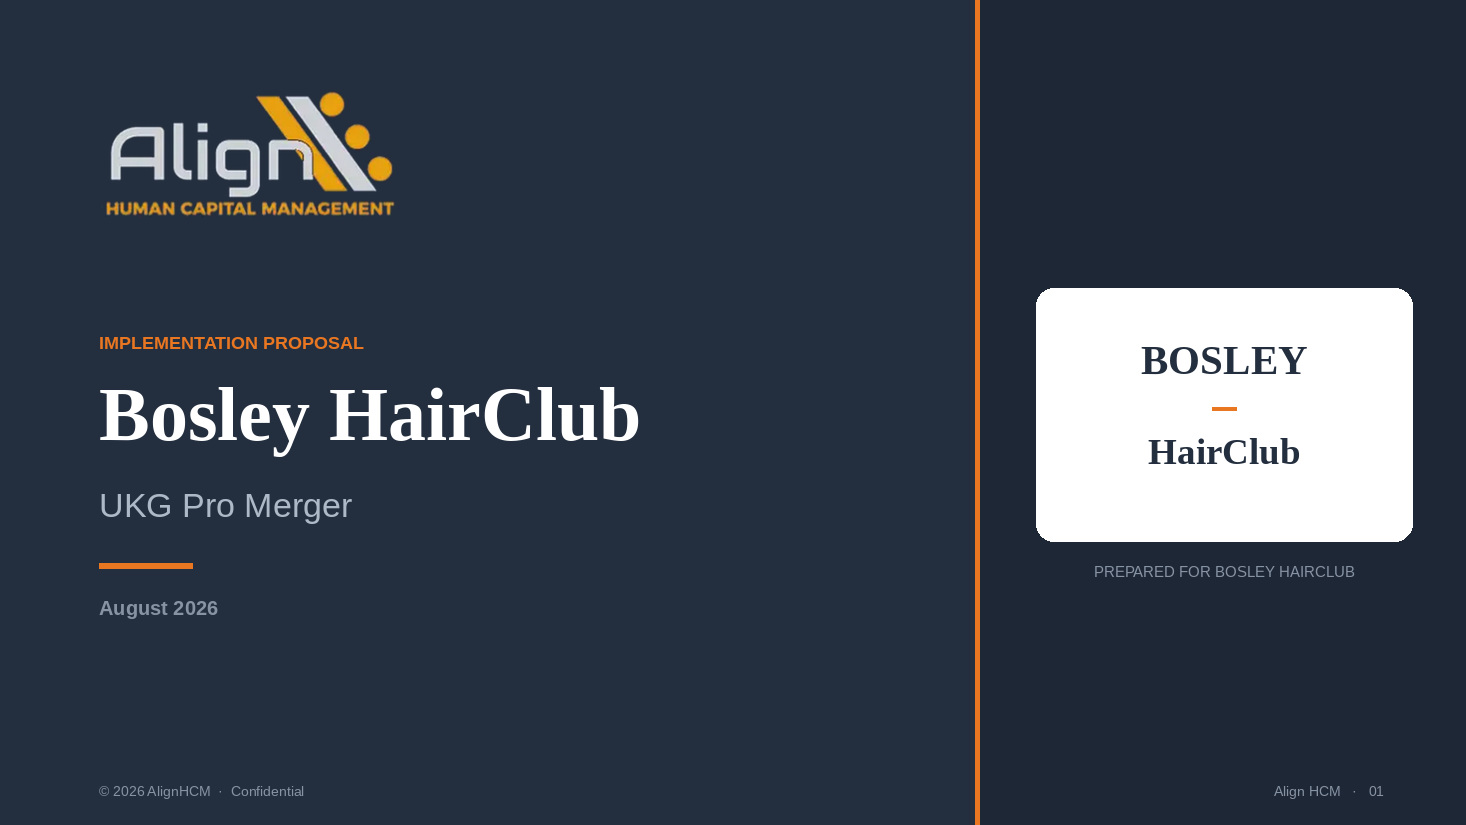
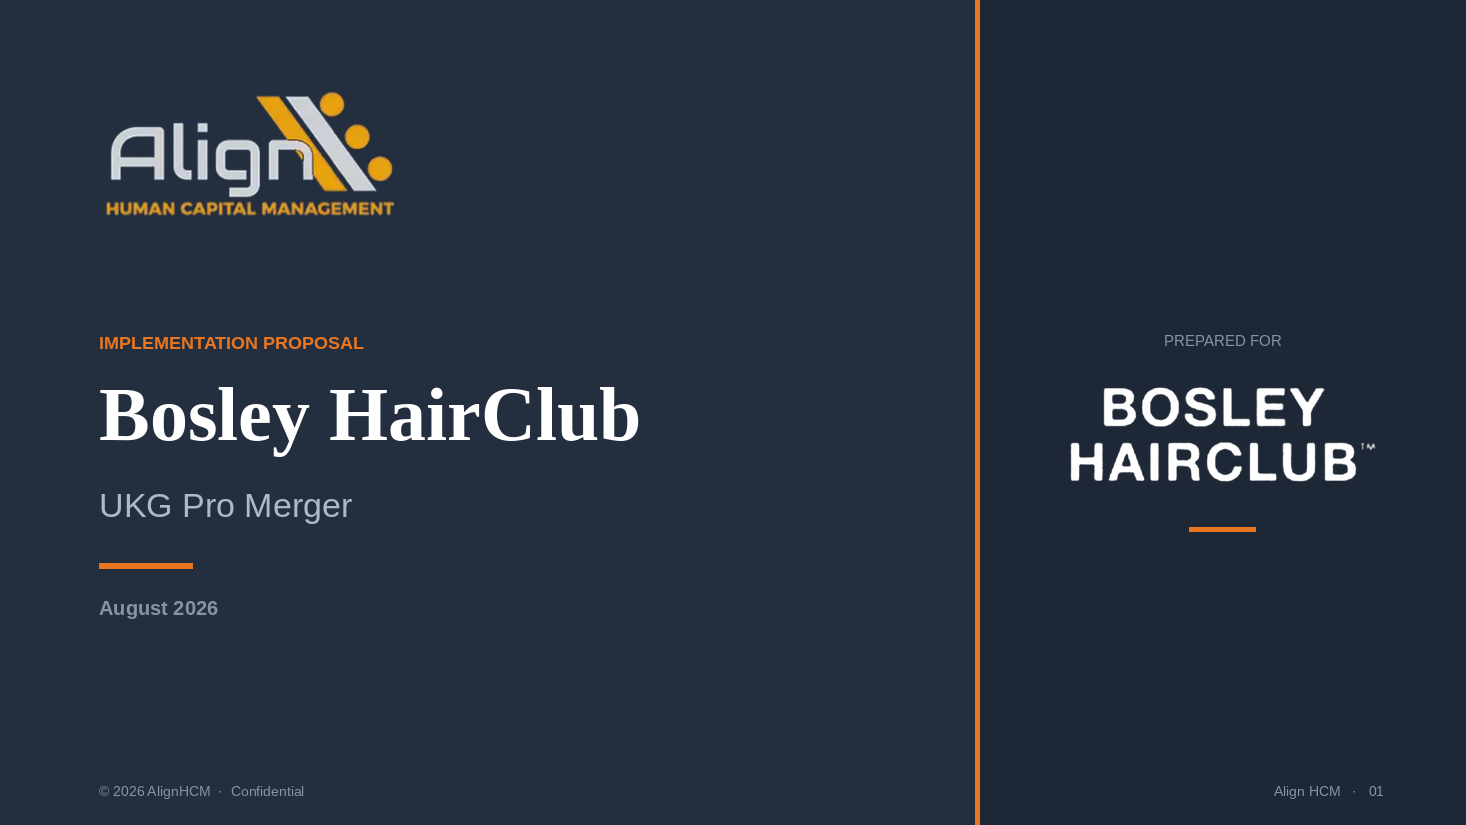
Use the real Bosley HairClub mark on slide 1
Dillon supplied the logo as white type on a solid #1A365D navy square, so the
typographic stand-in and its white plate are gone. The mark now sits directly on
slide 1's dark panel, mirroring the Align lockup opposite it.

Background removal is un-matting rather than colour keying: keying the navy
would leave a fringe on every anti-aliased edge, so extract_logo.py solves each
pixel back through p = white * a + bg * (1 - a) per channel to recover true
fractional coverage. The result is pure white art with clean edges, plus a navy
fill of the same mask for use on light backgrounds later.

The source is a 200px JPEG and the mark occupies 157x54px of it, so its edges
carry blocking noise. That is smoothed at native resolution before a 4x upscale,
then coverage is pushed toward 0/1 with a linear contrast ramp - sharpening
after the upscale would only magnify the artifacts, and unsharp masking rings.
Ramp steepness is capped at 2.4, above which the small trademark glyph breaks up.
Final asset is 628x216px, roughly 260 DPI at the 2.9in placement.

Validator still passes and no text overflows.

Claude-Session: https://claude.ai/code/session_01WvUF1JzKx1k1ooZkJowfQo

Changed region(s): [[0.706, 0.3333, 0.9823, 0.697]]

diff --git a/clients/align-hcm/deliverables/2026-08-12-bosley-hairclub-ukg-pro-merger-proposal/build/extract_logo.py b/clients/align-hcm/deliverables/2026-08-12-bosley-hairclub-ukg-pro-merger-proposal/build/extract_logo.py
@@ -1,0 +1,66 @@
+"""Lift the white Bosley HairClub wordmark off its navy plate.
+
+The supplied file is a 200px JPEG: white type on a solid #1A365D square. Colour
+keying would leave a navy fringe on every anti-aliased edge, so instead we solve
+the compositing equation per channel. Each pixel is
+
+    p = white * a + bg * (1 - a)
+
+so a = (p - bg) / (255 - bg), computed on R, G and B independently and averaged.
+That recovers true fractional coverage on the edges, and the recovered art is
+pure white — which is what we want, since it lands on the deck's navy panels.
+"""
+
+import numpy as np
+from PIL import Image, ImageFilter
+
+SRC = "/root/.claude/uploads/ea688f45-6511-5cd8-9469-ad72ea0100c8/6c893e0e-IMG_4739.JPG"
+OUT = "assets/bosley-hairclub-logo-white.png"
+OUT_NAVY = "assets/bosley-hairclub-logo-navy.png"
+BG = np.array([26, 54, 93], dtype=float)     # #1A365D, sampled from all 4 corners
+NOISE_FLOOR = 0.06                            # kills JPEG ringing in flat areas
+UPSCALE = 4
+
+img = Image.open(SRC).convert("RGB")
+p = np.array(img, dtype=float)
+
+# per-channel coverage, averaged; channels agree closely for white-on-navy
+alpha = ((p - BG) / (255.0 - BG)).mean(axis=2)
+alpha = np.clip(alpha, 0.0, 1.0)
+
+# JPEG leaves low-amplitude noise across the flat background: floor it, then
+# rescale what remains so genuine soft edges keep their full range
+alpha[alpha < NOISE_FLOOR] = 0.0
+alpha = np.clip((alpha - NOISE_FLOOR) / (1.0 - NOISE_FLOOR), 0.0, 1.0)
+
+# crop to the mark, keeping a small breathing margin
+ys, xs = np.nonzero(alpha > 0.12)
+pad = 3
+y0, y1 = max(0, ys.min() - pad), min(alpha.shape[0], ys.max() + 1 + pad)
+x0, x1 = max(0, xs.min() - pad), min(alpha.shape[1], xs.max() + 1 + pad)
+alpha = alpha[y0:y1, x0:x1]
+print(f"cropped to {x1 - x0} x {y1 - y0} (from {img.size[0]} x {img.size[1]})")
+
+a8 = Image.fromarray((alpha * 255).round().astype(np.uint8), mode="L")
+
+# The source is a 200px JPEG, so its edges carry blocking noise. Smooth that at
+# native resolution first — sharpening it after the upscale just magnifies it.
+a8 = a8.filter(ImageFilter.GaussianBlur(0.45))
+
+w, h = a8.size
+a8 = a8.resize((w * UPSCALE, h * UPSCALE), Image.LANCZOS)
+
+# The mark is bilevel type, so push coverage toward 0/1 with a linear contrast
+# ramp about the midpoint. This crisps the stems while leaving roughly a
+# one-pixel soft edge, and unlike unsharp masking it cannot ring.
+# 2.4 is the ceiling before the small trademark glyph starts breaking up
+STEEPNESS = 2.4
+a = np.array(a8, dtype=float) / 255.0
+a = np.clip((a - 0.5) * STEEPNESS + 0.5, 0.0, 1.0)
+a8 = Image.fromarray((a * 255).round().astype(np.uint8), mode="L")
+
+for name, rgb in ((OUT, (255, 255, 255)), (OUT_NAVY, (26, 54, 93))):
+    out = Image.new("RGBA", a8.size, rgb + (0,))
+    out.putalpha(a8)
+    out.save(name)
+    print("wrote", name, out.size)

diff --git a/clients/align-hcm/deliverables/2026-08-12-bosley-hairclub-ukg-pro-merger-proposal/build/build_deck.py b/clients/align-hcm/deliverables/2026-08-12-bosley-hairclub-ukg-pro-merger-proposal/build/build_deck.py
@@ -99,18 +99,20 @@ def slide_title(prs):
     _, tf = textbox(s, 0.90, 5.42, 7.6, 0.32)
     write(tf, [{"text": "August 2026"}], {"size": 13, "bold": True, "color": SLATE})
 
-    # client lockup — white plate so a supplied dark logo drops straight in
-    rect(s, 9.42, 2.62, 3.42, 2.30, fill=WHITE, radius=0.16, name="ClientLogoPlate")
-    _, tf = textbox(s, 9.42, 3.06, 3.42, 0.50, name="CLIENT_LOGO_BOSLEY")
-    write(tf, [{"text": "BOSLEY"}], {"size": 27, "bold": True, "color": NAVY,
-                                     "font": FONT_HEAD, "align": "c", "spacing": 2.2})
-    rect(s, 11.02, 3.70, 0.22, 0.035, fill=ORANGE)
-    _, tf = textbox(s, 9.42, 3.92, 3.42, 0.46, name="CLIENT_LOGO_HAIRCLUB")
-    write(tf, [{"text": "HairClub"}], {"size": 24, "bold": True, "color": NAVY,
-                                       "font": FONT_HEAD, "align": "c"})
-    _, tf = textbox(s, 9.42, 5.12, 3.42, 0.26)
-    write(tf, [{"text": "Prepared for Bosley HairClub"}],
-          {"size": 9.5, "color": SLATE, "align": "c", "caps": True, "spacing": 1.0})
+    # Client mark: the supplied logo is white type, so it sits straight on the
+    # dark panel — no plate needed, and it mirrors the Align lockup opposite.
+    panel_x, panel_w = 8.90, SLIDE_W - 8.90
+    _, tf = textbox(s, panel_x, 3.02, panel_w, 0.26)
+    write(tf, [{"text": "Prepared for"}],
+          {"size": 9.5, "color": SLATE, "align": "c", "caps": True, "spacing": 1.6})
+
+    logo_w = 2.90
+    logo_h = logo_w / 2.907                      # measured from the extracted PNG
+    picture(s, A("bosley-hairclub-logo-white.png"),
+            panel_x + (panel_w - logo_w) / 2, 3.46, w=logo_w,
+            name="BosleyHairClub_Logo")
+
+    rect(s, panel_x + (panel_w - 0.60) / 2, 3.46 + logo_h + 0.34, 0.60, 0.035, fill=ORANGE)
 
     _, tf = textbox(s, 0.90, FOOTER_Y, 6.0, 0.24)
     write(tf, [{"text": "© 2026 AlignHCM  ·  Confidential"}], {"size": 9, "color": SLATE})

diff --git a/clients/align-hcm/deliverables/2026-08-12-bosley-hairclub-ukg-pro-merger-proposal/README.md b/clients/align-hcm/deliverables/2026-08-12-bosley-hairclub-ukg-pro-merger-proposal/README.md
@@ -43,23 +43,29 @@ original Bosley deck. Both ship with Office, so nothing substitutes on open.
   transparent; no matte removal was needed and none was applied, so the artwork
   is unmodified. It is the light-on-dark version, which is why it sits on navy
   on slides 1 and 7.
-- **Bosley and HairClub** — **not** the official marks. External network egress
-  is blocked in the build environment and neither logo was present in Drive, so
-  slide 1 carries a typographic lockup on a white plate as a stand-in. This
-  follows the TPI Composites precedent, where the client mark was also set as
-  type.
+- **Bosley HairClub** — `assets/bosley-hairclub-logo-white.png`, the real mark,
+  supplied as white type on a solid `#1A365D` navy square. The navy is removed,
+  so it sits directly on the deck's dark panel with no plate behind it.
+  `assets/bosley-hairclub-logo-navy.png` is the same coverage mask filled navy,
+  for use on light backgrounds later.
 
-  To drop in the real files: on slide 1, delete the two text boxes named
-  `CLIENT_LOGO_BOSLEY` and `CLIENT_LOGO_HAIRCLUB` and place the transparent PNGs
-  inside `ClientLogoPlate` (the white rounded card at 9.42in, 2.62in,
-  3.42 x 2.30in). The plate is white specifically so a dark-on-transparent logo
-  reads without any further treatment.
+  Background removal is un-matting, not colour keying — see `build/extract_logo.py`.
+  Keying on the navy would leave a fringe on every anti-aliased edge; instead
+  each pixel is solved back through `p = white * a + bg * (1 - a)` per channel to
+  recover true fractional coverage, giving pure white art with clean edges.
+
+  **Resolution caveat:** the supplied file is a 200px JPEG, and the mark occupies
+  157 x 54px of it. It is denoised and upscaled 4x to 628 x 216px, which is about
+  260 DPI at the 2.9in placement — fine on screen and for normal printing, but
+  it is the ceiling this source allows. If Bosley HairClub can send an SVG, EPS,
+  or a large PNG, swap `assets/bosley-hairclub-logo-white.png` and rebuild;
+  nothing else has to change.
 
 ## Slides
 
 | # | Slide | Notes |
 |---|---|---|
-| 1 | Title | Split navy / deep-navy, Align logo, client logo plate |
+| 1 | Title | Split navy / deep-navy, Align logo left, Bosley HairClub mark right |
 | 2 | Executive Summary | Four cards, house icons in navy circles |
 | 3 | Proposed Timeline | Six phase chips on a navy ramp, go-live marker at week 12 |
 | 4 | Milestones by Phase | Native 3-column table, seven phases |
@@ -74,12 +80,13 @@ Content is transcribed from the source deck screenshots without rewording.
 - Slides 6 and 7 of the source deck were not in the screenshots provided — the
   footers jumped from `05` to `08` — so two slides are unaccounted for and are
   not represented here. This deck renumbers 1 through 7 continuously.
-- Bosley and HairClub logos, as above.
+- A higher-resolution Bosley HairClub logo would improve slide 1, as above.
 
 ## Rebuilding
 
 ```bash
 cd build
+python3 extract_logo.py                                    # client mark -> transparent PNGs
 python3 build_deck.py                                      # writes the .pptx
 python3 render_qa.py ../Align_HCM_*.pptx ../qa             # rasterizes for review
 ```
